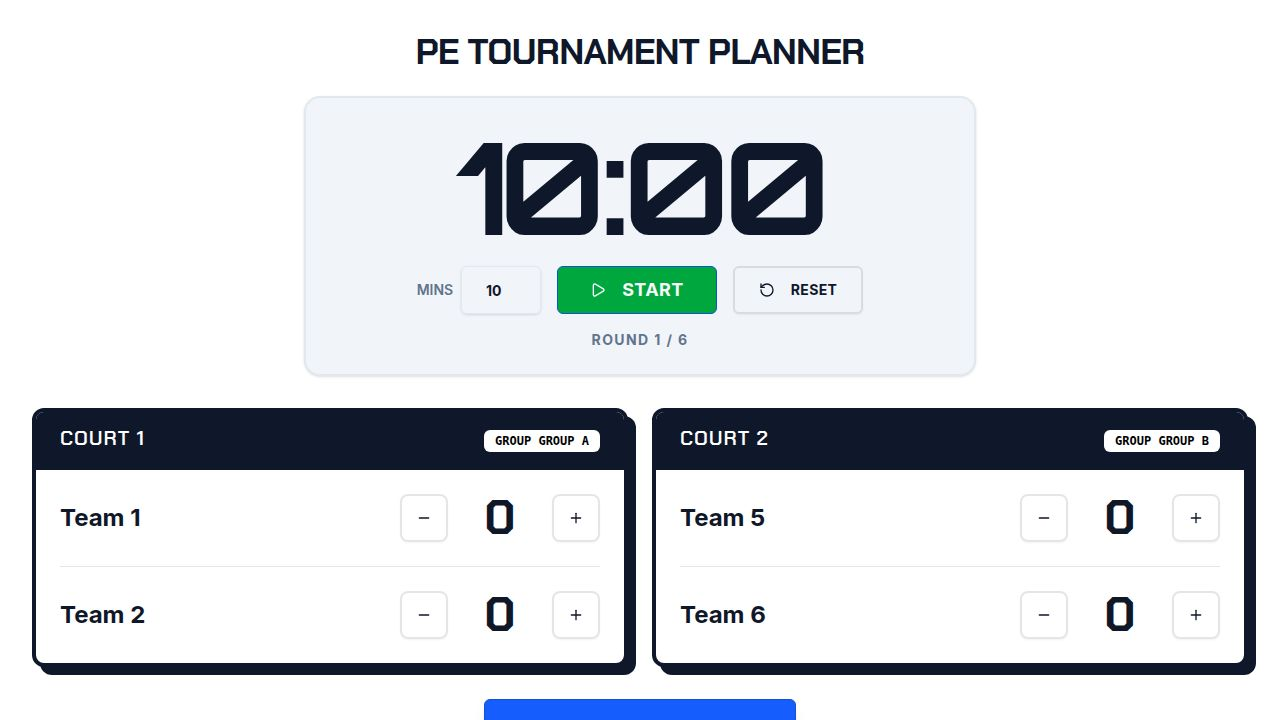
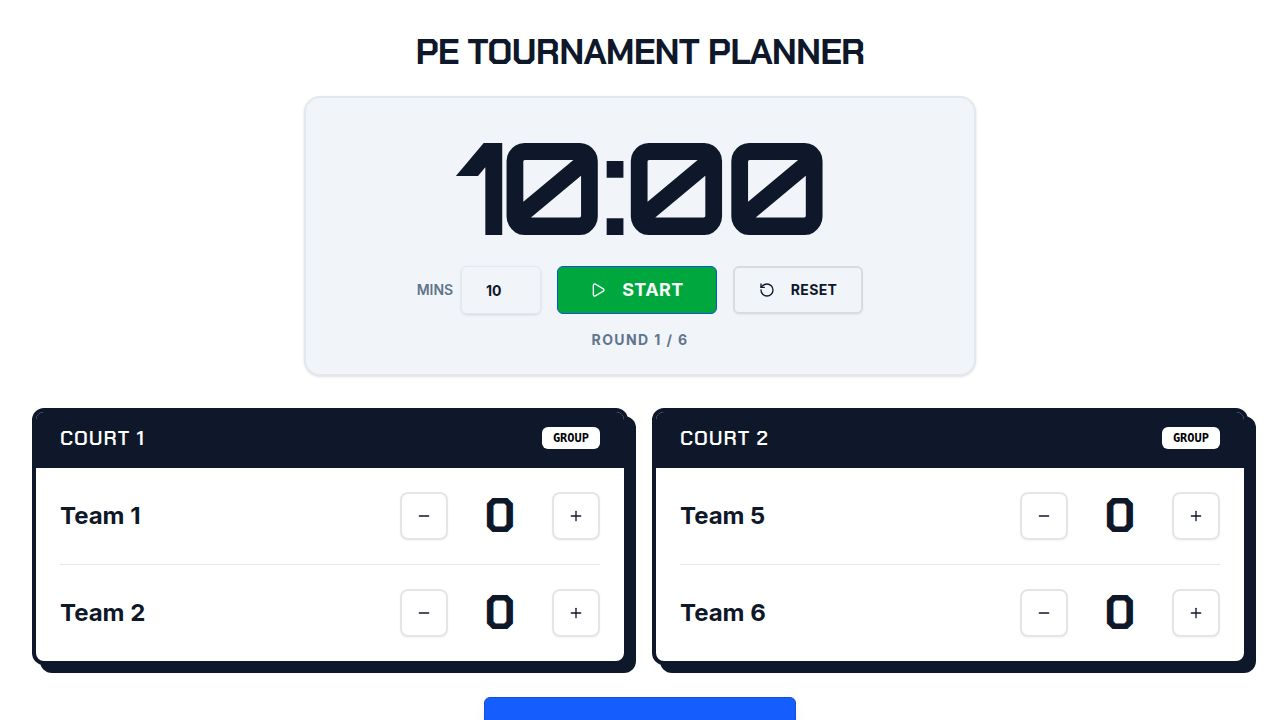
Add explicit labels and explanations for tournament finals structure
Add new fields to the Game type in `lib/tournament-logic.ts` to store match descriptions and team qualification sources, and update `pages/tournament.tsx` to display this information in the UI, including a dedicated finals rules explanation section and improved fixtures table formatting.

Replit-Commit-Author: Agent
Replit-Commit-Session-Id: b8095c07-802f-401c-b0c4-b0059ddc80d8
Replit-Commit-Checkpoint-Type: full_checkpoint
Replit-Commit-Event-Id: 4fd6c108-6f94-49c0-80cb-f04068edee8b
Replit-Commit-Screenshot-Url: https://storage.googleapis.com/screenshot-production-us-central1/39688c16-30d2-4667-acdb-38e875e7ebb7/b8095c07-802f-401c-b0c4-b0059ddc80d8/E3xELVP
Replit-Helium-Checkpoint-Created: true

diff --git a/client/src/pages/tournament.tsx b/client/src/pages/tournament.tsx
@@ -14,7 +14,7 @@ import { Input } from "@/components/ui/input";
 import { Card, CardContent, CardHeader, CardTitle } from "@/components/ui/card";
 import { Table, TableBody, TableCell, TableHead, TableHeader, TableRow } from "@/components/ui/table";
 import { Badge } from "@/components/ui/badge";
-import { Play, Pause, RotateCcw, ChevronRight, Trophy, Minus, Plus } from "lucide-react";
+import { Play, Pause, RotateCcw, ChevronRight, Trophy, Minus, Plus, Info } from "lucide-react";
 
 export default function TournamentPage() {
   const [teams, setTeams] = useState<Team[]>(INITIAL_TEAMS);
@@ -57,17 +57,12 @@ export default function TournamentPage() {
         } else {
           setTimeLeft(remaining);
           if (remaining <= 10) {
-             // Play beep only once per second. 
-             // We can check if we just crossed a second boundary, but simplified:
-             // Just play it if the fractional part is close to 0? No, simpler:
-             // The interval is 200ms in spec, but I used 1000ms. 
-             // To match spec "Update display every ~200 ms", I should increase frequency.
+             // Play beep logic if needed
           }
         }
       }, 200); 
     } else {
-      endTimeRef.current = null; // Pause: clear end time. 
-      // Note: Pausing loses the exact millisecond fraction, which is fine for this app.
+      endTimeRef.current = null;
       if (timerIntervalRef.current) clearInterval(timerIntervalRef.current);
     }
     return () => {
@@ -75,13 +70,11 @@ export default function TournamentPage() {
     };
   }, [timerActive]);
 
-  // Separate effect for beeps to avoid spamming in the high-frequency interval
   useEffect(() => {
       if (timerActive && timeLeft <= 10 && timeLeft > 0) {
           playBeep();
       }
   }, [timeLeft, timerActive]);
-
 
   const initAudio = () => {
     if (!audioContextRef.current) {
@@ -117,10 +110,8 @@ export default function TournamentPage() {
   const toggleTimer = () => {
       if (!timerActive) {
           initAudio();
-          // If resuming, calculate new end time based on current timeLeft
           endTimeRef.current = Date.now() + timeLeft * 1000;
       } else {
-          // Pausing
           endTimeRef.current = null;
       }
       setTimerActive(!timerActive);
@@ -151,12 +142,10 @@ export default function TournamentPage() {
   };
 
   const handleNextRound = () => {
-    // 1. Mark current round games as finished
     const updatedGames = games.map(g => 
       g.roundNumber === currentRound ? { ...g, status: 'finished' as const } : g
     );
 
-    // 2. Logic for finals generation after Round 6
     let finalGames = [...updatedGames];
     
     if (currentRound === 6) {
@@ -167,9 +156,7 @@ export default function TournamentPage() {
       finalGames = [...updatedGames, ...newFixtures];
     }
 
-    // 3. Logic for updating Finals (R9) participants after Semi-Finals (R7)
     if (currentRound === 7) {
-        // Find SF winners
         const sf1 = finalGames.find(g => g.roundNumber === 7 && g.courtId === 1);
         const sf2 = finalGames.find(g => g.roundNumber === 7 && g.courtId === 2);
         
@@ -271,13 +258,20 @@ export default function TournamentPage() {
         {COURTS.map(court => {
           const game = activeGames.find(g => g.courtId === court.id);
           return (
-            <Card key={court.id} className="border-4 border-slate-900 shadow-[8px_8px_0px_0px_rgba(15,23,42,1)] rounded-xl overflow-hidden">
-              <CardHeader className="bg-slate-900 text-white py-3 flex flex-row justify-between items-center">
-                <CardTitle className="font-display uppercase tracking-wider text-xl">{court.name}</CardTitle>
-                {game && (
-                    <Badge variant="secondary" className="font-mono uppercase text-xs font-bold bg-white text-black">
-                        {game.stage} {game.group ? `Group ${game.group}` : ''}
-                    </Badge>
+            <Card key={court.id} className="border-4 border-slate-900 shadow-[8px_8px_0px_0px_rgba(15,23,42,1)] rounded-xl overflow-hidden relative">
+              <CardHeader className="bg-slate-900 text-white py-3">
+                <div className="flex flex-row justify-between items-center mb-1">
+                    <CardTitle className="font-display uppercase tracking-wider text-xl">{court.name}</CardTitle>
+                    {game && (
+                        <Badge variant="secondary" className="font-mono uppercase text-xs font-bold bg-white text-black">
+                            {game.stage}
+                        </Badge>
+                    )}
+                </div>
+                {game && game.stage !== 'group' && (
+                    <div className="text-xs text-slate-300 font-mono uppercase tracking-wide">
+                        {game.description}
+                    </div>
                 )}
               </CardHeader>
               <CardContent className="p-6">
@@ -285,7 +279,10 @@ export default function TournamentPage() {
                   <div className="flex flex-col gap-6">
                     {/* Team A */}
                     <div className="flex items-center justify-between">
-                      <div className="text-xl md:text-2xl font-bold truncate max-w-[180px]">{getTeamName(game.teamAId)}</div>
+                      <div className="flex flex-col">
+                          <div className="text-xl md:text-2xl font-bold truncate max-w-[180px]">{getTeamName(game.teamAId)}</div>
+                          {game.sourceA && <div className="text-xs text-slate-500 font-medium">{game.sourceA}</div>}
+                      </div>
                       <div className="flex items-center gap-3">
                         <Button 
                           variant="outline" 
@@ -313,7 +310,10 @@ export default function TournamentPage() {
 
                     {/* Team B */}
                     <div className="flex items-center justify-between">
-                      <div className="text-xl md:text-2xl font-bold truncate max-w-[180px]">{getTeamName(game.teamBId)}</div>
+                      <div className="flex flex-col">
+                          <div className="text-xl md:text-2xl font-bold truncate max-w-[180px]">{getTeamName(game.teamBId)}</div>
+                          {game.sourceB && <div className="text-xs text-slate-500 font-medium">{game.sourceB}</div>}
+                      </div>
                       <div className="flex items-center gap-3">
                         <Button 
                           variant="outline" 
@@ -363,47 +363,62 @@ export default function TournamentPage() {
         )}
       </div>
 
-      <div className="grid lg:grid-cols-2 gap-8">
+      <div className="grid lg:grid-cols-2 gap-8 mb-12">
         {/* Fixtures Table */}
-        <div className="bg-white rounded-xl border border-slate-200 shadow-sm overflow-hidden">
+        <div className="bg-white rounded-xl border border-slate-200 shadow-sm overflow-hidden flex flex-col h-[500px]">
            <div className="bg-slate-100 p-4 border-b border-slate-200">
                <h3 className="font-bold uppercase text-slate-700">All Fixtures</h3>
            </div>
-           <div className="h-[400px] overflow-y-auto">
+           <div className="flex-1 overflow-y-auto">
                <Table>
-                   <TableHeader>
+                   <TableHeader className="bg-white sticky top-0 z-10 shadow-sm">
                        <TableRow>
                            <TableHead className="w-16">Rnd</TableHead>
-                           <TableHead>Court</TableHead>
-                           <TableHead>Stage</TableHead>
-                           <TableHead className="text-right">Match</TableHead>
-                           <TableHead className="text-center">Score</TableHead>
-                           <TableHead>Status</TableHead>
+                           <TableHead className="w-40">Match</TableHead>
+                           <TableHead className="text-right">Team A</TableHead>
+                           <TableHead className="text-center w-24">Score</TableHead>
+                           <TableHead>Team B</TableHead>
                        </TableRow>
                    </TableHeader>
                    <TableBody>
-                       {games.map(game => (
+                       {/* Group Stage Header */}
+                       <TableRow className="bg-slate-50 hover:bg-slate-50">
+                           <TableCell colSpan={5} className="font-bold text-xs uppercase text-slate-500 py-2 text-center tracking-widest">Group Stage</TableCell>
+                       </TableRow>
+                       {games.filter(g => g.stage === 'group').map(game => (
                            <TableRow key={game.id} className={game.roundNumber === currentRound ? "bg-blue-50" : ""}>
                                <TableCell className="font-mono font-bold text-slate-500">{game.roundNumber}</TableCell>
-                               <TableCell className="font-medium">Court {game.courtId}</TableCell>
-                               <TableCell className="text-xs uppercase font-bold text-slate-500">
-                                   <Badge variant="outline" className="text-[10px] px-1 py-0 h-5 border-slate-300 bg-white">
-                                       {game.stage}
-                                   </Badge>
+                               <TableCell className="text-xs font-medium text-slate-500">
+                                   {game.group ? `Group ${game.group}` : game.description}
+                               </TableCell>
+                               <TableCell className="text-right font-medium">{getTeamName(game.teamAId)}</TableCell>
+                               <TableCell className="text-center font-mono font-bold bg-slate-100 rounded">
+                                   {game.scoreA} - {game.scoreB}
+                               </TableCell>
+                               <TableCell className="font-medium">{getTeamName(game.teamBId)}</TableCell>
+                           </TableRow>
+                       ))}
+                       
+                       {/* Finals Header */}
+                       <TableRow className="bg-slate-50 hover:bg-slate-50 border-t-2 border-slate-100">
+                           <TableCell colSpan={5} className="font-bold text-xs uppercase text-slate-500 py-2 text-center tracking-widest">Finals & Placement</TableCell>
+                       </TableRow>
+                       {games.filter(g => g.stage !== 'group').map(game => (
+                           <TableRow key={game.id} className={game.roundNumber === currentRound ? "bg-blue-50" : ""}>
+                               <TableCell className="font-mono font-bold text-slate-500">{game.roundNumber}</TableCell>
+                               <TableCell className="text-xs font-medium text-slate-500">
+                                    <div className="truncate w-32" title={game.description}>{game.description}</div>
                                </TableCell>
                                <TableCell className="text-right font-medium">
-                                   {getTeamName(game.teamAId)} <span className="text-slate-400 mx-1">vs</span> {getTeamName(game.teamBId)}
+                                   <div>{getTeamName(game.teamAId)}</div>
+                                   {game.sourceA && <div className="text-[10px] text-slate-400">{game.sourceA}</div>}
                                </TableCell>
                                <TableCell className="text-center font-mono font-bold bg-slate-100 rounded">
                                    {game.scoreA} - {game.scoreB}
                                </TableCell>
-                               <TableCell>
-                                   {game.status === 'finished' ? 
-                                       <Badge variant="outline" className="bg-slate-100 text-slate-600 border-slate-300">Done</Badge> : 
-                                       game.roundNumber === currentRound ? 
-                                       <Badge className="bg-green-100 text-green-700 border-green-200 animate-pulse">Live</Badge> : 
-                                       <span className="text-slate-300 text-xs">Wait</span>
-                                   }
+                               <TableCell className="font-medium">
+                                   <div>{getTeamName(game.teamBId)}</div>
+                                   {game.sourceB && <div className="text-[10px] text-slate-400">{game.sourceB}</div>}
                                </TableCell>
                            </TableRow>
                        ))}
@@ -416,6 +431,39 @@ export default function TournamentPage() {
         <div className="space-y-8">
             <StandingsTable group="A" data={standingsA} />
             <StandingsTable group="B" data={standingsB} />
+            
+            {/* Finals Rules Box */}
+            <div className="bg-slate-50 border border-slate-200 rounded-xl p-6">
+                <div className="flex items-center gap-2 mb-4 text-slate-700 font-bold uppercase text-sm tracking-wider">
+                    <Info className="h-4 w-4" /> Finals Format Rules
+                </div>
+                <div className="grid grid-cols-1 md:grid-cols-2 gap-x-8 gap-y-2 text-sm text-slate-600">
+                    <div className="flex justify-between border-b border-slate-200 py-1">
+                        <span>SF1</span>
+                        <span className="font-mono font-bold">1st Group A vs 2nd Group B</span>
+                    </div>
+                    <div className="flex justify-between border-b border-slate-200 py-1">
+                        <span>SF2</span>
+                        <span className="font-mono font-bold">1st Group B vs 2nd Group A</span>
+                    </div>
+                    <div className="flex justify-between border-b border-slate-200 py-1">
+                        <span>5th/6th</span>
+                        <span className="font-mono font-bold">3rd Group A vs 3rd Group B</span>
+                    </div>
+                    <div className="flex justify-between border-b border-slate-200 py-1">
+                        <span>7th/8th</span>
+                        <span className="font-mono font-bold">4th Group A vs 4th Group B</span>
+                    </div>
+                    <div className="flex justify-between border-b border-slate-200 py-1">
+                        <span>3rd/4th</span>
+                        <span className="font-mono font-bold">Loser SF1 vs Loser SF2</span>
+                    </div>
+                    <div className="flex justify-between border-b border-slate-200 py-1">
+                        <span>Final</span>
+                        <span className="font-mono font-bold">Winner SF1 vs Winner SF2</span>
+                    </div>
+                </div>
+            </div>
         </div>
       </div>
 

diff --git a/client/src/lib/tournament-logic.ts b/client/src/lib/tournament-logic.ts
@@ -26,6 +26,10 @@ export type Game = {
   scoreA: number;
   scoreB: number;
   status: GameStatus;
+  // New explanatory fields
+  description: string; // e.g., "Semi-final 1 (1A vs 2B)"
+  sourceA?: string;    // e.g., "1st Group A"
+  sourceB?: string;    // e.g., "2nd Group B"
 };
 
 export type Court = {
@@ -72,23 +76,23 @@ export const COURTS: Court[] = [
 // R3: 1v4, 2v3
 export const INITIAL_GAMES: Game[] = [
   // Round 1
-  { id: 1, roundNumber: 1, courtId: 1, stage: 'group', group: 'A', teamAId: 1, teamBId: 2, scoreA: 0, scoreB: 0, status: 'scheduled' },
-  { id: 2, roundNumber: 1, courtId: 2, stage: 'group', group: 'B', teamAId: 5, teamBId: 6, scoreA: 0, scoreB: 0, status: 'scheduled' },
+  { id: 1, roundNumber: 1, courtId: 1, stage: 'group', group: 'A', teamAId: 1, teamBId: 2, scoreA: 0, scoreB: 0, status: 'scheduled', description: 'Group A Match' },
+  { id: 2, roundNumber: 1, courtId: 2, stage: 'group', group: 'B', teamAId: 5, teamBId: 6, scoreA: 0, scoreB: 0, status: 'scheduled', description: 'Group B Match' },
   // Round 2
-  { id: 3, roundNumber: 2, courtId: 1, stage: 'group', group: 'A', teamAId: 3, teamBId: 4, scoreA: 0, scoreB: 0, status: 'scheduled' },
-  { id: 4, roundNumber: 2, courtId: 2, stage: 'group', group: 'B', teamAId: 7, teamBId: 8, scoreA: 0, scoreB: 0, status: 'scheduled' },
+  { id: 3, roundNumber: 2, courtId: 1, stage: 'group', group: 'A', teamAId: 3, teamBId: 4, scoreA: 0, scoreB: 0, status: 'scheduled', description: 'Group A Match' },
+  { id: 4, roundNumber: 2, courtId: 2, stage: 'group', group: 'B', teamAId: 7, teamBId: 8, scoreA: 0, scoreB: 0, status: 'scheduled', description: 'Group B Match' },
   // Round 3
-  { id: 5, roundNumber: 3, courtId: 1, stage: 'group', group: 'A', teamAId: 1, teamBId: 3, scoreA: 0, scoreB: 0, status: 'scheduled' },
-  { id: 6, roundNumber: 3, courtId: 2, stage: 'group', group: 'B', teamAId: 5, teamBId: 7, scoreA: 0, scoreB: 0, status: 'scheduled' },
+  { id: 5, roundNumber: 3, courtId: 1, stage: 'group', group: 'A', teamAId: 1, teamBId: 3, scoreA: 0, scoreB: 0, status: 'scheduled', description: 'Group A Match' },
+  { id: 6, roundNumber: 3, courtId: 2, stage: 'group', group: 'B', teamAId: 5, teamBId: 7, scoreA: 0, scoreB: 0, status: 'scheduled', description: 'Group B Match' },
   // Round 4
-  { id: 7, roundNumber: 4, courtId: 1, stage: 'group', group: 'A', teamAId: 2, teamBId: 4, scoreA: 0, scoreB: 0, status: 'scheduled' },
-  { id: 8, roundNumber: 4, courtId: 2, stage: 'group', group: 'B', teamAId: 6, teamBId: 8, scoreA: 0, scoreB: 0, status: 'scheduled' },
+  { id: 7, roundNumber: 4, courtId: 1, stage: 'group', group: 'A', teamAId: 2, teamBId: 4, scoreA: 0, scoreB: 0, status: 'scheduled', description: 'Group A Match' },
+  { id: 8, roundNumber: 4, courtId: 2, stage: 'group', group: 'B', teamAId: 6, teamBId: 8, scoreA: 0, scoreB: 0, status: 'scheduled', description: 'Group B Match' },
   // Round 5
-  { id: 9, roundNumber: 5, courtId: 1, stage: 'group', group: 'A', teamAId: 1, teamBId: 4, scoreA: 0, scoreB: 0, status: 'scheduled' },
-  { id: 10, roundNumber: 5, courtId: 2, stage: 'group', group: 'B', teamAId: 5, teamBId: 8, scoreA: 0, scoreB: 0, status: 'scheduled' },
+  { id: 9, roundNumber: 5, courtId: 1, stage: 'group', group: 'A', teamAId: 1, teamBId: 4, scoreA: 0, scoreB: 0, status: 'scheduled', description: 'Group A Match' },
+  { id: 10, roundNumber: 5, courtId: 2, stage: 'group', group: 'B', teamAId: 5, teamBId: 8, scoreA: 0, scoreB: 0, status: 'scheduled', description: 'Group B Match' },
   // Round 6
-  { id: 11, roundNumber: 6, courtId: 1, stage: 'group', group: 'A', teamAId: 2, teamBId: 3, scoreA: 0, scoreB: 0, status: 'scheduled' },
-  { id: 12, roundNumber: 6, courtId: 2, stage: 'group', group: 'B', teamAId: 6, teamBId: 7, scoreA: 0, scoreB: 0, status: 'scheduled' },
+  { id: 11, roundNumber: 6, courtId: 1, stage: 'group', group: 'A', teamAId: 2, teamBId: 3, scoreA: 0, scoreB: 0, status: 'scheduled', description: 'Group A Match' },
+  { id: 12, roundNumber: 6, courtId: 2, stage: 'group', group: 'B', teamAId: 6, teamBId: 7, scoreA: 0, scoreB: 0, status: 'scheduled', description: 'Group B Match' },
 ];
 
 // Logic Functions
@@ -172,7 +176,10 @@ export function generateFinalsFixtures(standingsA: Standing[], standingsB: Stand
     teamBId: standingsB[1].teamId,
     scoreA: 0,
     scoreB: 0,
-    status: 'scheduled'
+    status: 'scheduled',
+    description: 'Semi-final 1 (1st A vs 2nd B)',
+    sourceA: '1st Group A',
+    sourceB: '2nd Group B'
   });
 
   // SF2: 1st B vs 2nd A (Court 2)
@@ -185,7 +192,10 @@ export function generateFinalsFixtures(standingsA: Standing[], standingsB: Stand
     teamBId: standingsA[1].teamId,
     scoreA: 0,
     scoreB: 0,
-    status: 'scheduled'
+    status: 'scheduled',
+    description: 'Semi-final 2 (1st B vs 2nd A)',
+    sourceA: '1st Group B',
+    sourceB: '2nd Group A'
   });
 
   // R8: Placing Games (5th-8th)
@@ -199,7 +209,10 @@ export function generateFinalsFixtures(standingsA: Standing[], standingsB: Stand
     teamBId: standingsB[2].teamId,
     scoreA: 0,
     scoreB: 0,
-    status: 'scheduled'
+    status: 'scheduled',
+    description: '5th/6th Playoff (3rd A vs 3rd B)',
+    sourceA: '3rd Group A',
+    sourceB: '3rd Group B'
   });
 
   // 7th/8th: 4th A vs 4th B (Court 2)
@@ -212,7 +225,10 @@ export function generateFinalsFixtures(standingsA: Standing[], standingsB: Stand
     teamBId: standingsB[3].teamId,
     scoreA: 0,
     scoreB: 0,
-    status: 'scheduled'
+    status: 'scheduled',
+    description: '7th/8th Playoff (4th A vs 4th B)',
+    sourceA: '4th Group A',
+    sourceB: '4th Group B'
   });
 
   // R9: Finals & 3rd Place
@@ -226,7 +242,10 @@ export function generateFinalsFixtures(standingsA: Standing[], standingsB: Stand
     teamBId: null,
     scoreA: 0,
     scoreB: 0,
-    status: 'scheduled'
+    status: 'scheduled',
+    description: 'Grand Final (Winner SF1 vs Winner SF2)',
+    sourceA: 'Winner SF1',
+    sourceB: 'Winner SF2'
   });
 
   // 3rd Place: Loser SF1 vs Loser SF2 (Court 2)
@@ -239,7 +258,10 @@ export function generateFinalsFixtures(standingsA: Standing[], standingsB: Stand
     teamBId: null,
     scoreA: 0,
     scoreB: 0,
-    status: 'scheduled'
+    status: 'scheduled',
+    description: '3rd/4th Playoff (Loser SF1 vs Loser SF2)',
+    sourceA: 'Loser SF1',
+    sourceB: 'Loser SF2'
   });
 
   return games;
